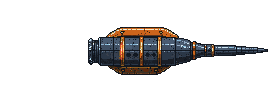
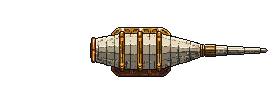
Solari hull sprites: Jon's heat-shield picks (light A, medium E, heavy A), cleaned
picked/ holds the cleaned sprites, picked/raw/ what PixelLab returned.
tools/hull_clean.py is the cleaning pass. Still to perfect by hand.

Claude-Session: https://claude.ai/code/session_01FQemMvme1wfvjCSMpMkDgS

Changed region(s): [[0.3284, 0.2826, 1.0, 0.8478]]

diff --git a/tkg/art/tools/hull_clean.py b/tkg/art/tools/hull_clean.py
@@ -1,0 +1,49 @@
+# Clean a PixelLab hull take against its template: drop pixels outside the
+# template's silhouette (grown a pixel), recolour lone rust, orange or blue
+# specks on the white tile to the tile around them, and drop small islands.
+# Dithering and the lit slots are left alone. Run from the folder of takes.
+
+from PIL import Image, ImageFilter
+from collections import Counter, deque
+import colorsys
+T='/home/user/ThreeKelvin/tkg/art/hull_templates/template_solari_%s.png'
+def sat(c):
+    return colorsys.rgb_to_hsv(c[0]/255,c[1]/255,c[2]/255)[1]
+def clean(src, w, out):
+    im=Image.open(src).convert('RGBA'); W,H=im.size
+    keep=Image.open(T%w).convert('RGBA').getchannel('A').point(lambda v:255 if v else 0).filter(ImageFilter.MaxFilter(3))
+    a=im.load(); k=keep.load(); st=Counter()
+    for y in range(H):
+        for x in range(W):
+            if a[x,y][3] and not k[x,y]: a[x,y]=(0,0,0,0); st['outside']+=1
+    # specks of a foreign colour on the white tile: a saturated pixel (rust,
+    # orange, blue) whose neighbours are almost all pale tile
+    for _ in range(3):
+        b=im.copy(); bp=b.load()
+        for y in range(1,H-1):
+            for x in range(1,W-1):
+                c=bp[x,y]
+                if not c[3] or sat(c) < .28: continue
+                n8=[bp[x+dx,y+dy] for dx in (-1,0,1) for dy in (-1,0,1) if dx or dy]
+                tiles=[n for n in n8 if n[3] and sat(n) < .22]
+                if len(tiles) >= 6:
+                    a[x,y]=Counter(tiles).most_common(1)[0][0]; st['speck']+=1
+    seen=set(); comps=[]
+    for y in range(H):
+        for x in range(W):
+            if a[x,y][3] and (x,y) not in seen:
+                q=deque([(x,y)]); seen.add((x,y)); c=[]
+                while q:
+                    p=q.popleft(); c.append(p)
+                    for d in ((1,0),(-1,0),(0,1),(0,-1)):
+                        n=(p[0]+d[0],p[1]+d[1])
+                        if 0<=n[0]<W and 0<=n[1]<H and n not in seen and a[n][3]: seen.add(n); q.append(n)
+                comps.append(c)
+    comps.sort(key=len,reverse=True)
+    for c in comps[1:]:
+        if len(c)<60:
+            for p in c: a[p]=(0,0,0,0)
+            st['island']+=len(c)
+    im.save(out); return dict(st)
+for n,w in (('L1','light'),('M5','medium'),('H1','heavy')):
+    print(n, clean(n+'.png', w, n+'.clean.png'))
